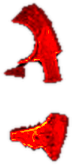
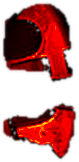
Truck caliper: traced full caliper outline; rewrite caliper description
Claude-Session: https://claude.ai/code/session_01TC8hHsQGEZ2GaHBM8k3cGS

diff --git a/index.html b/index.html
@@ -108,7 +108,7 @@
       <div class="wrap-tool">
         <div class="caliper-view wrap-view" id="wrap-view">
           <div class="cv-stage" id="wrap-stage">
-            <img id="wrap-img" src="assets/img/wrap-panamera.webp?v=20261109i" alt="Sedan with its body wrapped in the selected color" width="1200" height="900" loading="lazy">
+            <img id="wrap-img" src="assets/img/wrap-panamera.webp?v=20261109j" alt="Sedan with its body wrapped in the selected color" width="1200" height="900" loading="lazy">
             <canvas id="wrap-paint" width="1149" height="342" aria-hidden="true"></canvas>
           </div>
           <p class="cv-photo-note">Real car, rewrapped live</p>
@@ -156,7 +156,7 @@
       <div class="caliper-view" id="caliper-view" data-mode="photo">
         <canvas id="caliper-canvas" tabindex="0" role="img" aria-label="3D model of a wheel and brake caliper in the selected color. Drag, or use the arrow keys, to change the angle."></canvas>
         <div class="cv-stage" id="cv-stage">
-          <img id="caliper-img" src="assets/img/caliper-sports.webp?v=20261109i" alt="Black wheel on a red sports car" width="1200" height="900" loading="lazy">
+          <img id="caliper-img" src="assets/img/caliper-sports.webp?v=20261109j" alt="Black wheel on a red sports car" width="1200" height="900" loading="lazy">
           <canvas id="caliper-paint" width="193" height="347" aria-hidden="true"></canvas>
         </div>
         <p class="cv-hint" aria-hidden="true"><span class="cv-hint-icon"></span>Drag to rotate</p>
@@ -174,7 +174,7 @@
       </div>
       <div class="calipers-copy">
         <h2 id="calipers-h">Caliper color change</h2>
-        <p>The detail people notice at a stoplight. We refinish your brake calipers in high-heat, professional-grade paint, in the color you choose.</p>
+        <p>Painted brake calipers are the detail that turns heads at every stoplight. We prep each caliper by hand and finish it in a high-temperature, professional-grade coating that holds its color through brake heat, road salt and brake dust. Pick a color below and see it on a real car.</p>
         <p class="picker-label" id="vehicle-label">Vehicle</p>
         <div class="vehicle-picker" role="radiogroup" aria-labelledby="vehicle-label">
           <button role="radio" aria-checked="true" data-vehicle="sports">Sports car</button>
@@ -405,6 +405,6 @@
 </footer>
 
 <script src="caliper-3d.js?v=202611091725" defer></script>
-<script src="main.js?v=202611091930" defer></script>
+<script src="main.js?v=202611091940" defer></script>
 </body>
 </html>

diff --git a/main.js b/main.js
@@ -36,7 +36,7 @@ function arrowNav(buttons, select) {
 // box = where the shade layer sits in the photo: [x, y, width, height]; size defaults to 1200x900.
 // Bump ASSET_V whenever a photo or shade layer changes, so phones never pair a cached old
 // photo with a new shade layer (that is what makes the repaint look shifted).
-const ASSET_V = '20261109i';
+const ASSET_V = '20261109j';
 const toLin = v => Math.pow(v / 255, 2.2);
 const hexLin = h => { const n = parseInt(h.replace('#', ''), 16); return [n >> 16 & 255, n >> 8 & 255, n & 255].map(toLin); };
 const FIN = { gloss: [1, 1], satin: [0.8, 0.4], matte: [0.6, 0.12] };   // lighting contrast, shine kept
@@ -195,7 +195,7 @@ const caliperPaint = createPainter({
   vehicles: {
     sports:  { img: asset('caliper-sports.webp'),  shade: asset('caliper-sports-shade.png'),  box: [659, 274, 170, 358], alt: 'Black wheel on a red sports car' },
     sedan:   { img: asset('caliper-sedan.webp'),   shade: asset('caliper-sedan-shade.png'),   box: [361, 484, 212, 379], size: [1320, 1227], alt: 'Gloss black wheel on a grey sedan' },
-    truck:   { img: asset('caliper-truck.webp'),   shade: asset('caliper-truck-shade.png'),   box: [710, 346, 72, 165],  alt: 'Gloss black wheel on a grey pickup truck' },
+    truck:   { img: asset('caliper-truck.webp'),   shade: asset('caliper-truck-shade.png'),   box: [703, 350, 79, 162],  alt: 'Gloss black wheel on a grey pickup truck' },
     closeup: { img: asset('caliper-closeup.webp'), shade: asset('caliper-closeup-shade.png'), box: [128, 24, 307, 843], alt: 'Close-up of a brake caliper beside a drilled rotor' }
   }
 });
